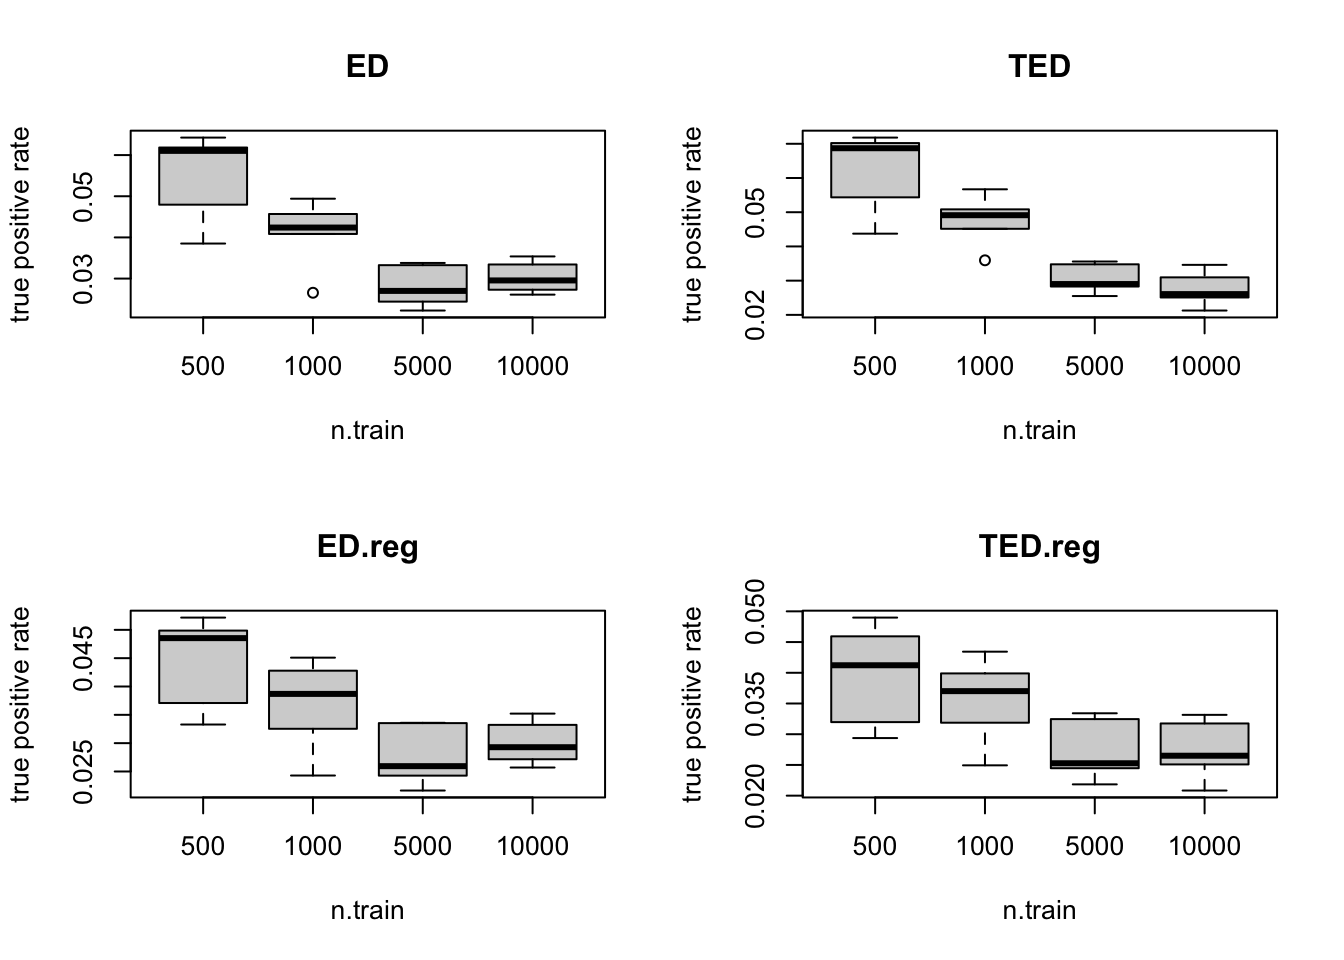
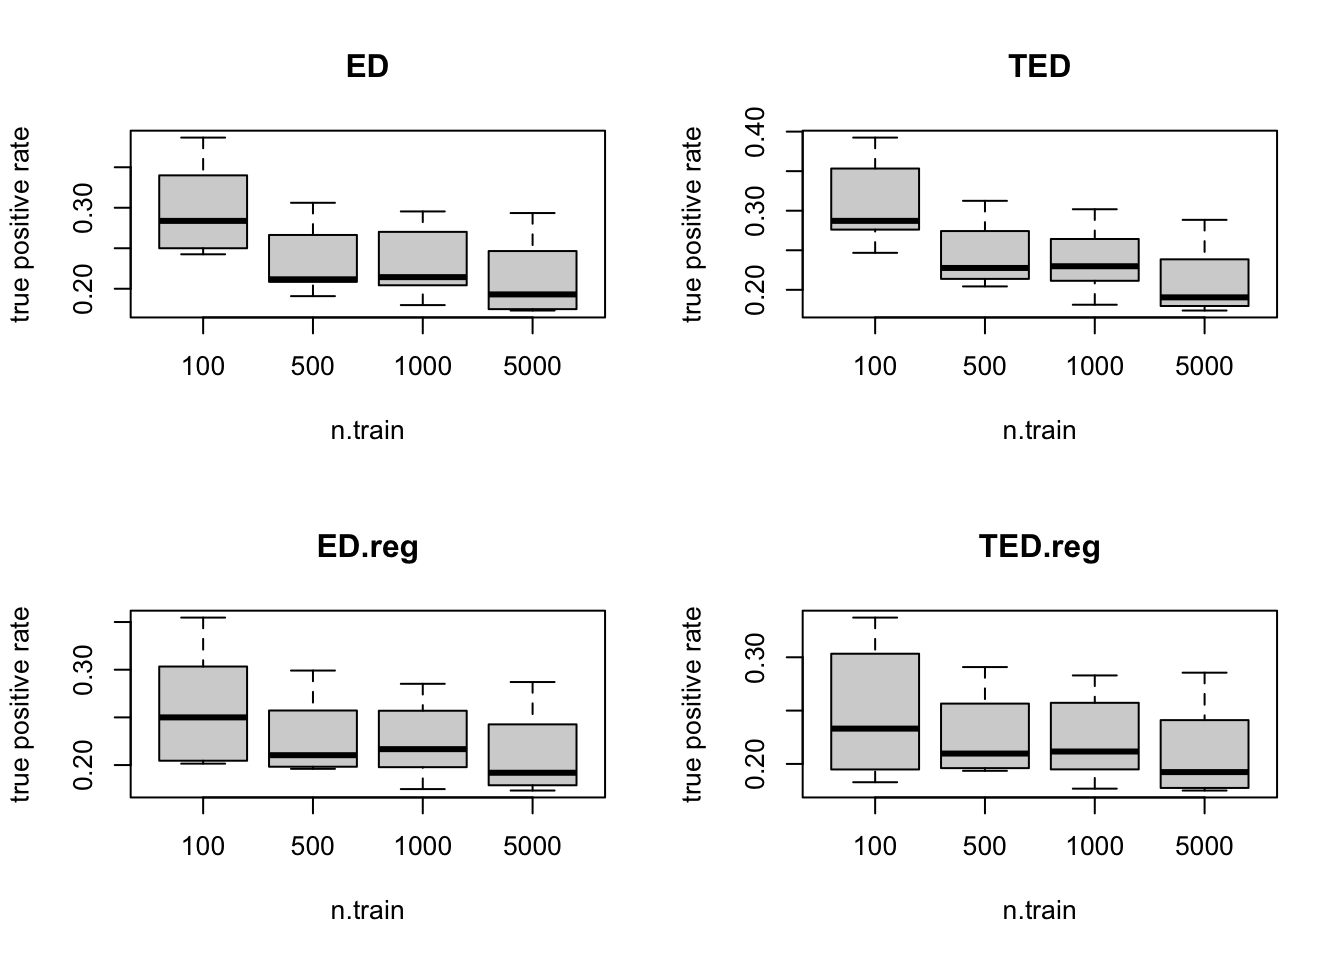
Build site.

diff --git a/docs/test_tpr_code.html b/docs/test_tpr_code.html
@@ -385,7 +385,7 @@ div.tocify {
 <div class="tab-content">
 <div id="summary" class="tab-pane fade in active">
 <p>
-<strong>Last updated:</strong> 2022-10-17
+<strong>Last updated:</strong> 2022-11-02
 </p>
 <p>
 <strong>Checks:</strong> <span class="glyphicon glyphicon-ok text-success" aria-hidden="true"></span> 7 <span class="glyphicon glyphicon-exclamation-sign text-danger" aria-hidden="true"></span> 0
@@ -476,16 +476,16 @@ This reproducible <a href="http://rmarkdown.rstudio.com">R Markdown</a> analysis
 <div class="panel panel-default">
 <div class="panel-heading">
 <p class="panel-title">
-<a data-toggle="collapse" data-parent="#workflowr-checks" href="#strongRepositoryversionstrongahrefhttpsgithubcomyunqiyang0215udrpapertree6cee1a5f8d4cc392bf70f5f9312da6d7af0a2355targetblank6cee1a5a"> <span class="glyphicon glyphicon-ok text-success" aria-hidden="true"></span> <strong>Repository version:</strong> <a href="https://github.com/yunqiyang0215/udr-paper/tree/6cee1a5f8d4cc392bf70f5f9312da6d7af0a2355" target="_blank">6cee1a5</a> </a>
+<a data-toggle="collapse" data-parent="#workflowr-checks" href="#strongRepositoryversionstrongahrefhttpsgithubcomyunqiyang0215udrpapertree7a6a8919a2aac42fa1e406267454a01b1a196dcatargetblank7a6a891a"> <span class="glyphicon glyphicon-ok text-success" aria-hidden="true"></span> <strong>Repository version:</strong> <a href="https://github.com/yunqiyang0215/udr-paper/tree/7a6a8919a2aac42fa1e406267454a01b1a196dca" target="_blank">7a6a891</a> </a>
 </p>
 </div>
[2 lines of base64/hex data omitted]
 <div class="panel-body">
 <p>
 Great! You are using Git for version control. Tracking code development and connecting the code version to the results is critical for reproducibility.
 </p>
 <p>
-The results in this page were generated with repository version <a href="https://github.com/yunqiyang0215/udr-paper/tree/6cee1a5f8d4cc392bf70f5f9312da6d7af0a2355" target="_blank">6cee1a5</a>. See the <em>Past versions</em> tab to see a history of the changes made to the R Markdown and HTML files.
+The results in this page were generated with repository version <a href="https://github.com/yunqiyang0215/udr-paper/tree/7a6a8919a2aac42fa1e406267454a01b1a196dca" target="_blank">7a6a891</a>. See the <em>Past versions</em> tab to see a history of the changes made to the R Markdown and HTML files.
 </p>
 <p>
 Note that you need to be careful to ensure that all relevant files for the analysis have been committed to Git prior to generating the results (you can use <code>wflow_publish</code> or <code>wflow_git_commit</code>). workflowr only checks the R Markdown file, but you know if there are other scripts or data files that it depends on. Below is the status of the Git repository when the results were generated:
@@ -493,7 +493,9 @@ Note that you need to be careful to ensure that all relevant files for the analy
 <pre><code>
 Ignored files:
     Ignored:    .DS_Store
+    Ignored:    .Rhistory
     Ignored:    .Rproj.user/
+    Ignored:    analysis/power_vs_fdr_cache/
 
 </code></pre>
 <p>
@@ -532,6 +534,40 @@ Message
 </tr>
 </thead>
 <tbody>
+<tr>
+<td>
+Rmd
+</td>
+<td>
+<a href="https://github.com/yunqiyang0215/udr-paper/blob/7a6a8919a2aac42fa1e406267454a01b1a196dca/analysis/test_tpr_code.Rmd" target="_blank">7a6a891</a>
+</td>
+<td>
+yunqiyang0215
+</td>
+<td>
+2022-11-02
+</td>
+<td>
+wflow_publish("analysis/test_tpr_code.Rmd")
+</td>
+</tr>
+<tr>
+<td>
+html
+</td>
+<td>
+<a href="https://rawcdn.githack.com/yunqiyang0215/udr-paper/4ef15706b102b584a629c0e3b9e26a3845b94122/docs/test_tpr_code.html" target="_blank">4ef1570</a>
+</td>
+<td>
+yunqiyang0215
+</td>
+<td>
+2022-10-17
+</td>
+<td>
+Build site.
+</td>
+</tr>
 <tr>
 <td>
 Rmd
@@ -632,15 +668,15 @@ wflow_publish("analysis/test_tpr_code.Rmd")
 <li><p>Simulation 2: True <span class="math inline">\(U\)</span>s contains 10 unconstrained matrix.</p></li>
 </ol>
 <pre class="r"><code>source(&quot;./code/simulation_func.R&quot;)
-
-#### Load packages
 library(udr)
 library(mashr)
-library(mvtnorm)</code></pre>
+library(mvtnorm)
+library(LaplacesDemon)</code></pre>
 <pre class="r"><code>#### True param in simulation
 K = 10
 R = 5
-n.train = c(5e2, 1e3, 5e3, 1e4)
+s = 5
+n.train = c(1e2, 5e2, 1e3, 5e3)
 threshold = 0.95
 param = list(w = rep(1/K, K), U = list(), V = diag(R))</code></pre>
 </div>
@@ -660,7 +696,7 @@ for (i in 1:length(n.train)){
   for (seed in seeds){
   # Simulate data
       set.seed(seed)
-      param$U &lt;-  sim_U_true(R, null.mat = FALSE, identity = TRUE, num_singleton = 5, num_unconstrained = 4)
+      param$U &lt;-  sim_U_true(R, s, null.mat = FALSE, identity = TRUE, num_singleton = 5, num_unconstrained = 4)
       dat.train &lt;- simulate_mixture_ebnm(n.train[i], param$w,param$U,param$V)
       mc &lt;- mash_set_data(dat.train$X, Shat = 1)
       
@@ -686,7 +722,6 @@ for (i in 1:length(n.train)){
       U &lt;- lapply(fit$U,function (e) &quot;[[&quot;(e,&quot;mat&quot;))
       g.fitted &lt;- create_g(fit$w, U)
       ted1[seed, i] = ted1[seed, i] + compare_lfsr_fitted_vs_truth(dat.train, g.fitted, mc, threshold = threshold)[[1]]
-  
   
       # Fit ED.reg
       fit = ud_fit(f0, control = list(unconstrained.update = &quot;ed&quot;, resid.update = &#39;none&#39;,
@@ -749,112 +784,6 @@ yunqiyang0215
 </table>
 </div>
 </div>
-</div>
-<div id="simulation-2-true-us-contains-10-unconstrained-matrix." class="section level2">
-<h2>Simulation 2: True <span class="math inline">\(U\)</span>s contains 10 unconstrained matrix.</h2>
-<pre class="r"><code>#### Simulation and fitting
-seeds = c(1:5)
-
-ed1 &lt;- matrix(0, ncol = 4, nrow = length(seeds))
-ted1 &lt;- matrix(0, ncol = 4, nrow = length(seeds))
-ed2 &lt;- matrix(0, ncol = 4, nrow = length(seeds))
-ted2 &lt;- matrix(0, ncol = 4, nrow = length(seeds))
-fa &lt;- matrix(0, ncol = 4, nrow = length(seeds))
-
-
-for (i in 1:length(n.train)){
-  for (seed in seeds){
-  # Simulate data
-      set.seed(seed)
-      param$U &lt;-  sim_U_true(R, null.mat = FALSE, identity = TRUE, num_singleton = 0, num_unconstrained = 9)
-      dat.train &lt;- simulate_mixture_ebnm(n.train[i], param$w,param$U,param$V)
-      mc &lt;- mash_set_data(dat.train$X, Shat = 1)
-      
-      # Initialization
-      set.seed(888)
-      U.init = c()
-      for (k in 1:K){
-        U.init[[k]] &lt;- udr:::sim_unconstrained(R)
-      }
-      f0 = ud_init(X = dat.train$X, V = param$V, U_scaled = NULL, U_unconstrained = U.init, n_rank1 = 0)
-      
-      # Fit ED
-      fit = ud_fit(f0, control = list(unconstrained.update = &quot;ed&quot;, resid.update = &#39;none&#39;,
-                                      tol = 1e-02, tol.lik = 1e-2, n0 = 0, lambda = 0, maxiter = 5e3), verbose=FALSE)
-      U &lt;- lapply(fit$U,function (e) &quot;[[&quot;(e,&quot;mat&quot;))
-      g.fitted &lt;- create_g(fit$w, U)
-      ed1[seed, i] = ed1[seed, i] + compare_lfsr_fitted_vs_truth(dat.train, g.fitted, mc, threshold = threshold)[[1]]
-  
-      # Fit TED
-      fit = ud_fit(f0, control = list(unconstrained.update = &quot;ted&quot;, resid.update = &#39;none&#39;,
-                                      tol = 1e-02, tol.lik = 1e-2, n0 = 0, lambda = 0, maxiter = 5e3), verbose=FALSE)
-      
-      U &lt;- lapply(fit$U,function (e) &quot;[[&quot;(e,&quot;mat&quot;))
-      g.fitted &lt;- create_g(fit$w, U)
-      ted1[seed, i] = ted1[seed, i] + compare_lfsr_fitted_vs_truth(dat.train, g.fitted, mc, threshold = threshold)[[1]]
-  
-  
-      # Fit ED.reg
-      fit = ud_fit(f0, control = list(unconstrained.update = &quot;ed&quot;, resid.update = &#39;none&#39;,
-                                      tol = 1e-02, tol.lik = 1e-2, n0 = round(R/2), lambda = 0, maxiter = 5e3), verbose=FALSE)
-      
-      U &lt;- lapply(fit$U,function (e) &quot;[[&quot;(e,&quot;mat&quot;))
-      g.fitted &lt;- create_g(fit$w, U)
-      ed2[seed, i] = ed2[seed, i] + compare_lfsr_fitted_vs_truth(dat.train, g.fitted, mc, threshold = threshold)[[1]]
-
-  
-      # Fit TED.reg
-      fit = ud_fit(f0, control = list(unconstrained.update = &quot;ted&quot;, resid.update = &#39;none&#39;,
-                                      tol = 1e-02, tol.lik = 1e-2, n0 = 0, lambda = round(R/2), maxiter = 5e3), verbose=FALSE)
-      U &lt;- lapply(fit$U,function (e) &quot;[[&quot;(e,&quot;mat&quot;))
-      g.fitted &lt;- create_g(fit$w, U)
-      ted2[seed, i] = ted2[seed, i] + compare_lfsr_fitted_vs_truth(dat.train, g.fitted, mc, threshold = threshold)[[1]]
-    }
-}
-</code></pre>
-<pre class="r"><code>par(mfrow = c(2,2))
-boxplot(ed1, names = n.train, xlab = &quot;n.train&quot;, ylab = &quot;true positive rate&quot;, main = &quot;ED&quot;)
-boxplot(ted1, names = n.train, xlab = &quot;n.train&quot;, ylab = &quot;true positive rate&quot;, main = &quot;TED&quot;)
-boxplot(ed2, names = n.train, xlab = &quot;n.train&quot;, ylab = &quot;true positive rate&quot;, main = &quot;ED.reg&quot;)
-boxplot(ted2, names = n.train, xlab = &quot;n.train&quot;, ylab = &quot;true positive rate&quot;, main = &quot;TED.reg&quot;)</code></pre>
-<p><img src="figure/test_tpr_code.Rmd/unnamed-chunk-6-1.png" width="672" style="display: block; margin: auto;" /></p>
-<p>
-<button type="button" class="btn btn-default btn-xs btn-workflowr btn-workflowr-fig" data-toggle="collapse" data-target="#fig-unnamed-chunk-6-1">
-Past versions of unnamed-chunk-6-1.png
-</button>
-</p>
-<div id="fig-unnamed-chunk-6-1" class="collapse">
-<div class="table-responsive">
-<table class="table table-condensed table-hover">
-<thead>
-<tr>
-<th>
-Version
-</th>
-<th>
-Author
-</th>
-<th>
-Date
-</th>
-</tr>
-</thead>
-<tbody>
-<tr>
-<td>
-<a href="https://github.com/yunqiyang0215/udr-paper/blob/e06777dbcf03142d5bb2e1c0fee2cf2bd597c7d9/docs/figure/test_tpr_code.Rmd/unnamed-chunk-6-1.png" target="_blank">e06777d</a>
-</td>
-<td>
-yunqiyang0215
-</td>
-<td>
-2022-10-17
-</td>
-</tr>
-</tbody>
-</table>
-</div>
-</div>
 <br>
 <p>
 <button type="button" class="btn btn-default btn-workflowr btn-workflowr-sessioninfo" data-toggle="collapse" data-target="#workflowr-sessioninfo" style="display: block;">
@@ -878,22 +807,23 @@ yunqiyang0215
 # [1] stats     graphics  grDevices utils     datasets  methods   base     
 # 
 # other attached packages:
-# [1] mvtnorm_1.1-3   mashr_0.2.51    ashr_2.2-47     udr_0.3-142    
-# [5] workflowr_1.6.2
+# [1] LaplacesDemon_16.1.6 mvtnorm_1.1-3        mashr_0.2.51        
+# [4] ashr_2.2-47          udr_0.3-142          workflowr_1.6.2     
 # 
 # loaded via a namespace (and not attached):
 #  [1] Rcpp_1.0.8.3     highr_0.9        plyr_1.8.6       pillar_1.6.4    
 #  [5] compiler_4.1.1   later_1.3.0      jquerylib_0.1.4  git2r_0.28.0    
 #  [9] tools_4.1.1      digest_0.6.28    evaluate_0.14    lifecycle_1.0.1 
 # [13] tibble_3.1.5     lattice_0.20-44  pkgconfig_2.0.3  rlang_0.4.12    
-# [17] Matrix_1.3-4     yaml_2.2.1       xfun_0.27        fastmap_1.1.0   
-# [21] invgamma_1.1     stringr_1.4.0    knitr_1.36       fs_1.5.0        
-# [25] vctrs_0.3.8      rprojroot_2.0.2  grid_4.1.1       glue_1.4.2      
-# [29] R6_2.5.1         fansi_0.5.0      rmarkdown_2.11   mixsqp_0.3-43   
-# [33] rmeta_3.0        irlba_2.3.5      magrittr_2.0.1   whisker_0.4     
-# [37] promises_1.2.0.1 ellipsis_0.3.2   htmltools_0.5.2  assertthat_0.2.1
-# [41] abind_1.4-5      softImpute_1.4-1 httpuv_1.6.3     utf8_1.2.2      
-# [45] stringi_1.7.5    truncnorm_1.0-8  SQUAREM_2021.1   crayon_1.4.1</code></pre>
+# [17] Matrix_1.3-4     parallel_4.1.1   yaml_2.2.1       xfun_0.27       
+# [21] fastmap_1.1.0    invgamma_1.1     stringr_1.4.0    knitr_1.36      
+# [25] fs_1.5.0         vctrs_0.3.8      rprojroot_2.0.2  grid_4.1.1      
+# [29] glue_1.4.2       R6_2.5.1         fansi_0.5.0      rmarkdown_2.11  
+# [33] mixsqp_0.3-43    rmeta_3.0        irlba_2.3.5      magrittr_2.0.1  
+# [37] whisker_0.4      promises_1.2.0.1 ellipsis_0.3.2   htmltools_0.5.2 
+# [41] assertthat_0.2.1 abind_1.4-5      softImpute_1.4-1 httpuv_1.6.3    
+# [45] utf8_1.2.2       stringi_1.7.5    truncnorm_1.0-8  SQUAREM_2021.1  
+# [49] crayon_1.4.1</code></pre>
 </div>
 </div>
 
